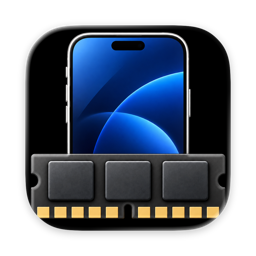
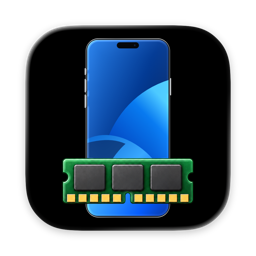
.26.1
Оновлено іконку застосунку: векторний корпус iPhone за шаблоном liquidframe, зелена оперативна пам’ять збільшеного розміру, чорна підкладка та прозорі зовнішні кути. Телефон і RAM розділено на окремі шари Icon Composer зі сталими пропорціями.

Оновлено зображення в README і примітки до релізу, додано атрибуцію та MIT-ліцензію шаблону. Перевірено Release-збірку в Xcode, вигляд скомпільованої іконки й прозорість. Версію 26.1 та збірку 4 збережено.

diff --git a/docs/releases/26.1.md b/docs/releases/26.1.md
@@ -1,6 +1,8 @@
 # SwiftSimSlim 26.1
 
-Version 26.1, build 4. This source release includes the new simulator-and-RAM icon and updated screenshots in the README.
+Version 26.1, build 4. This source release includes the updated simulator-and-RAM icon and screenshots in the README.
+
+The icon uses a fixed iPhone template, a larger green RAM module, and a black background. Separate foreground layers preserve transparency and device proportions. The README icon matches the compiled app icon.
 
 ## New features
 
